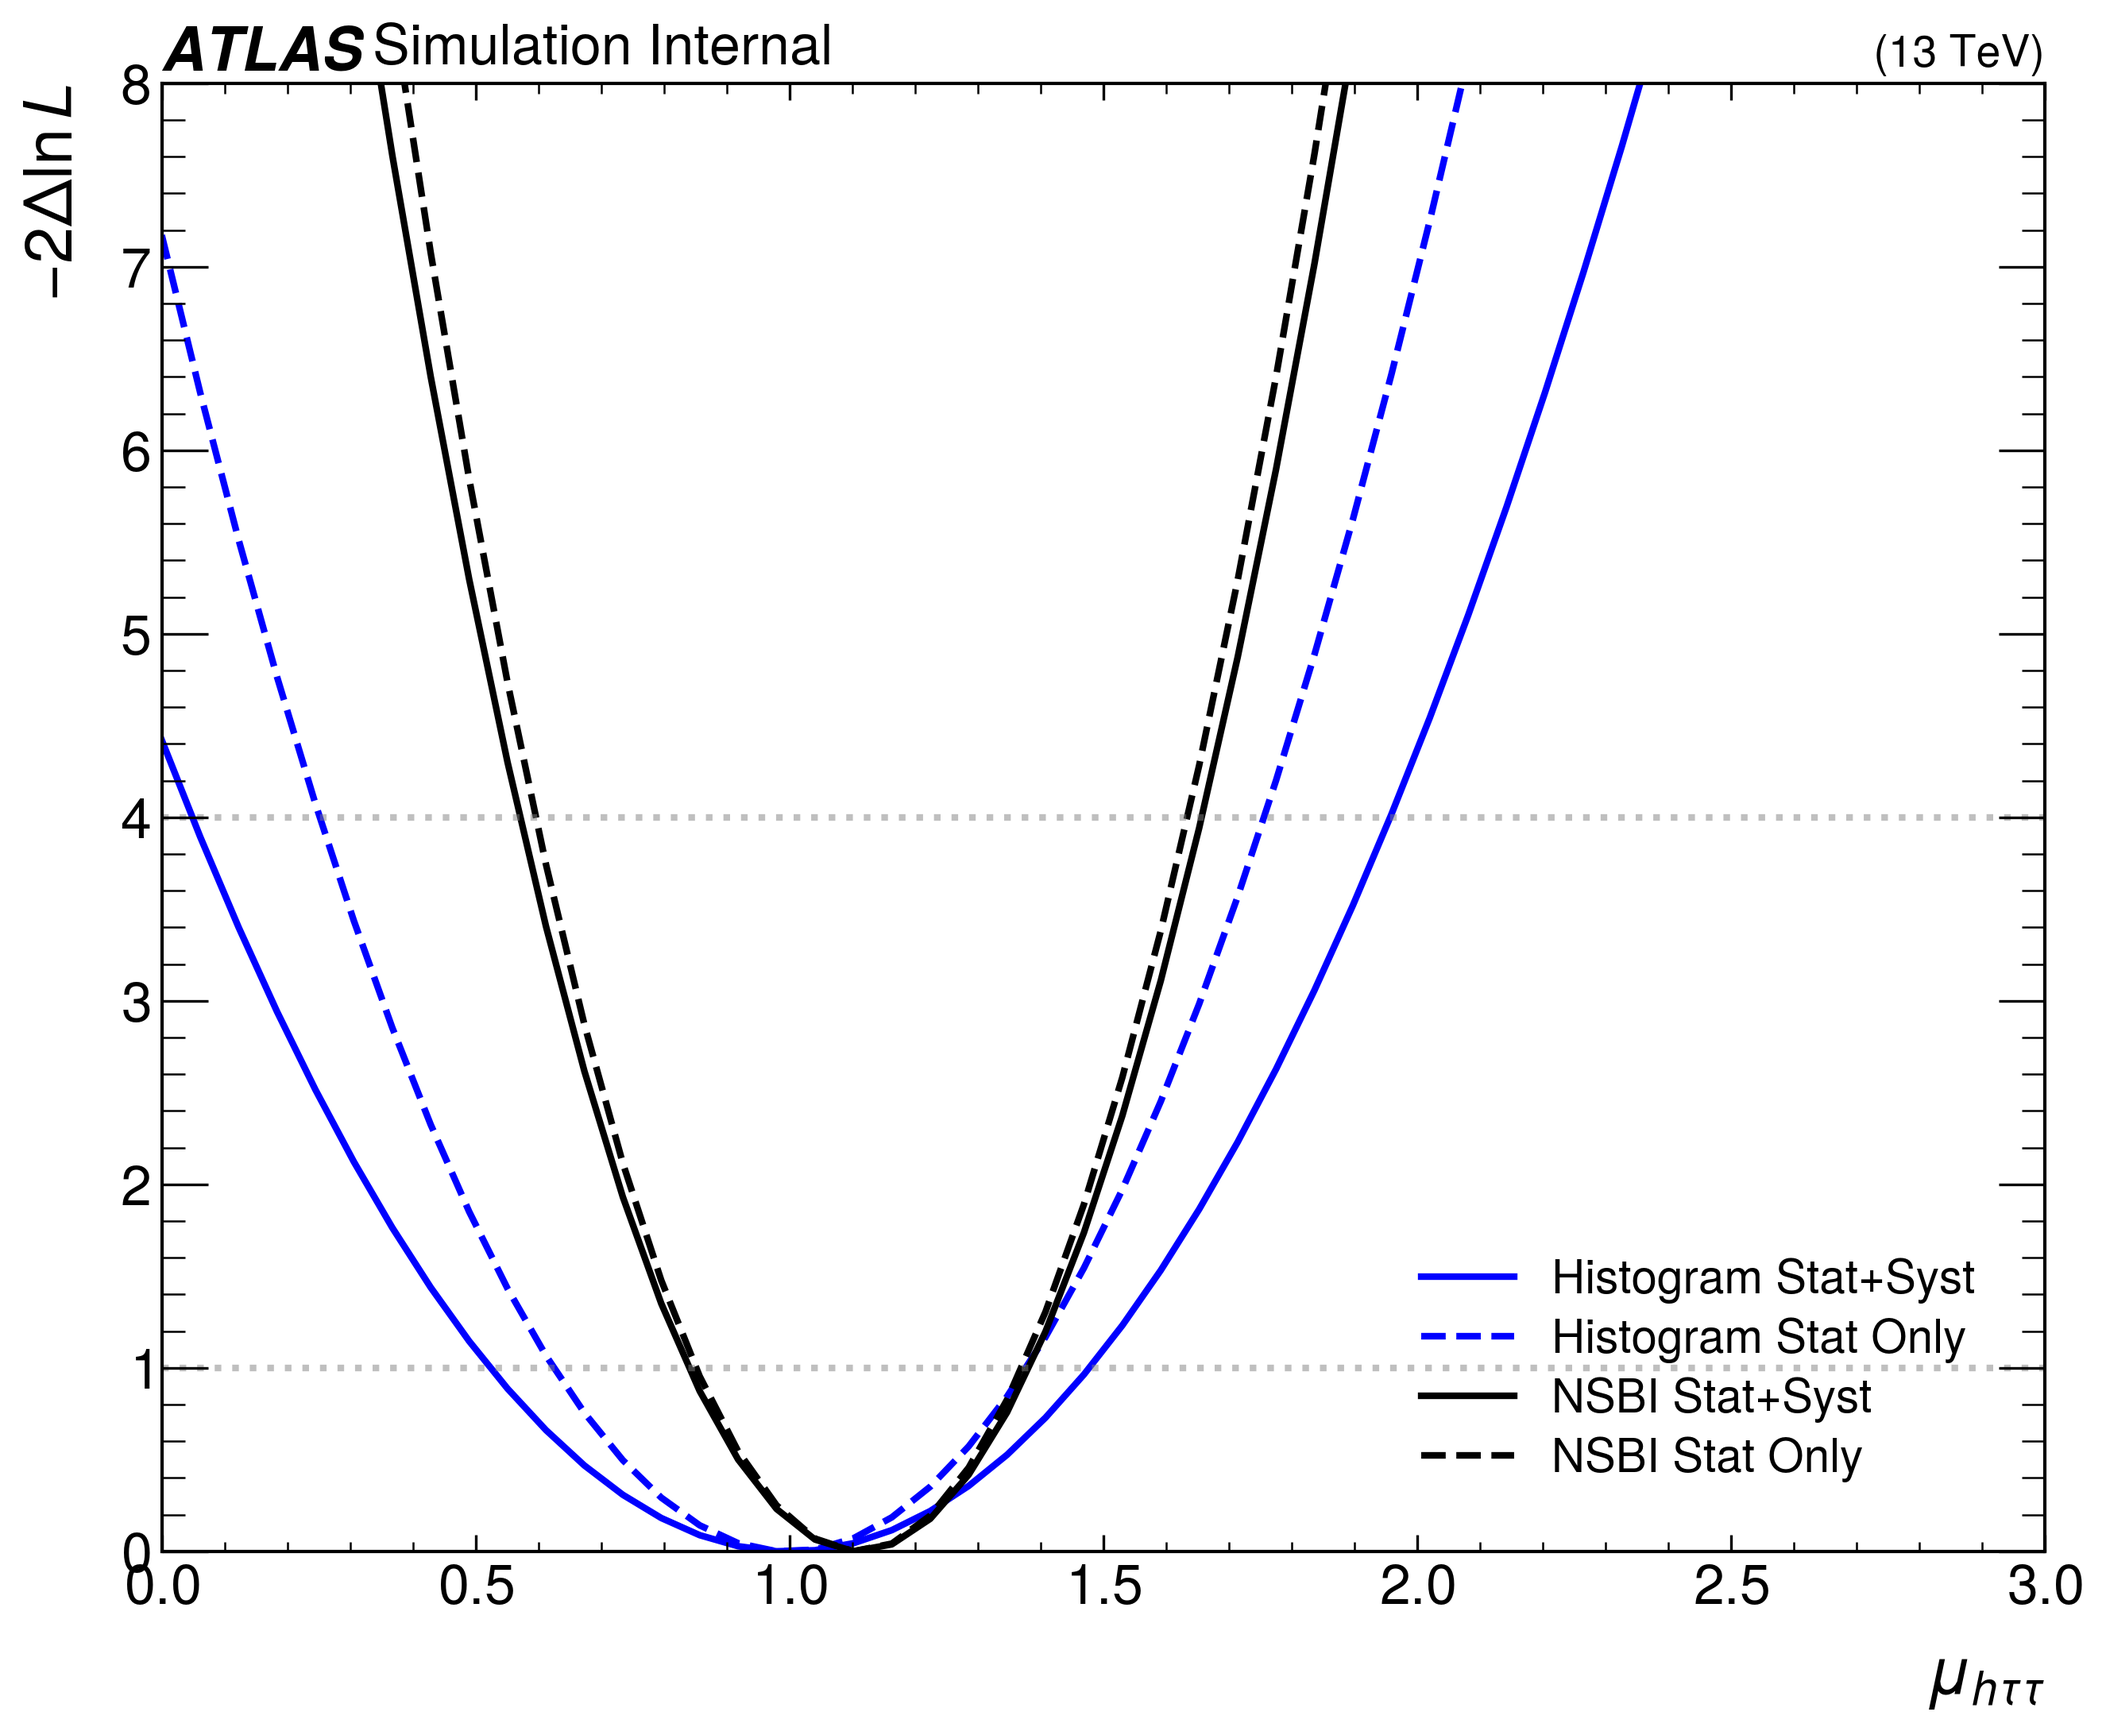
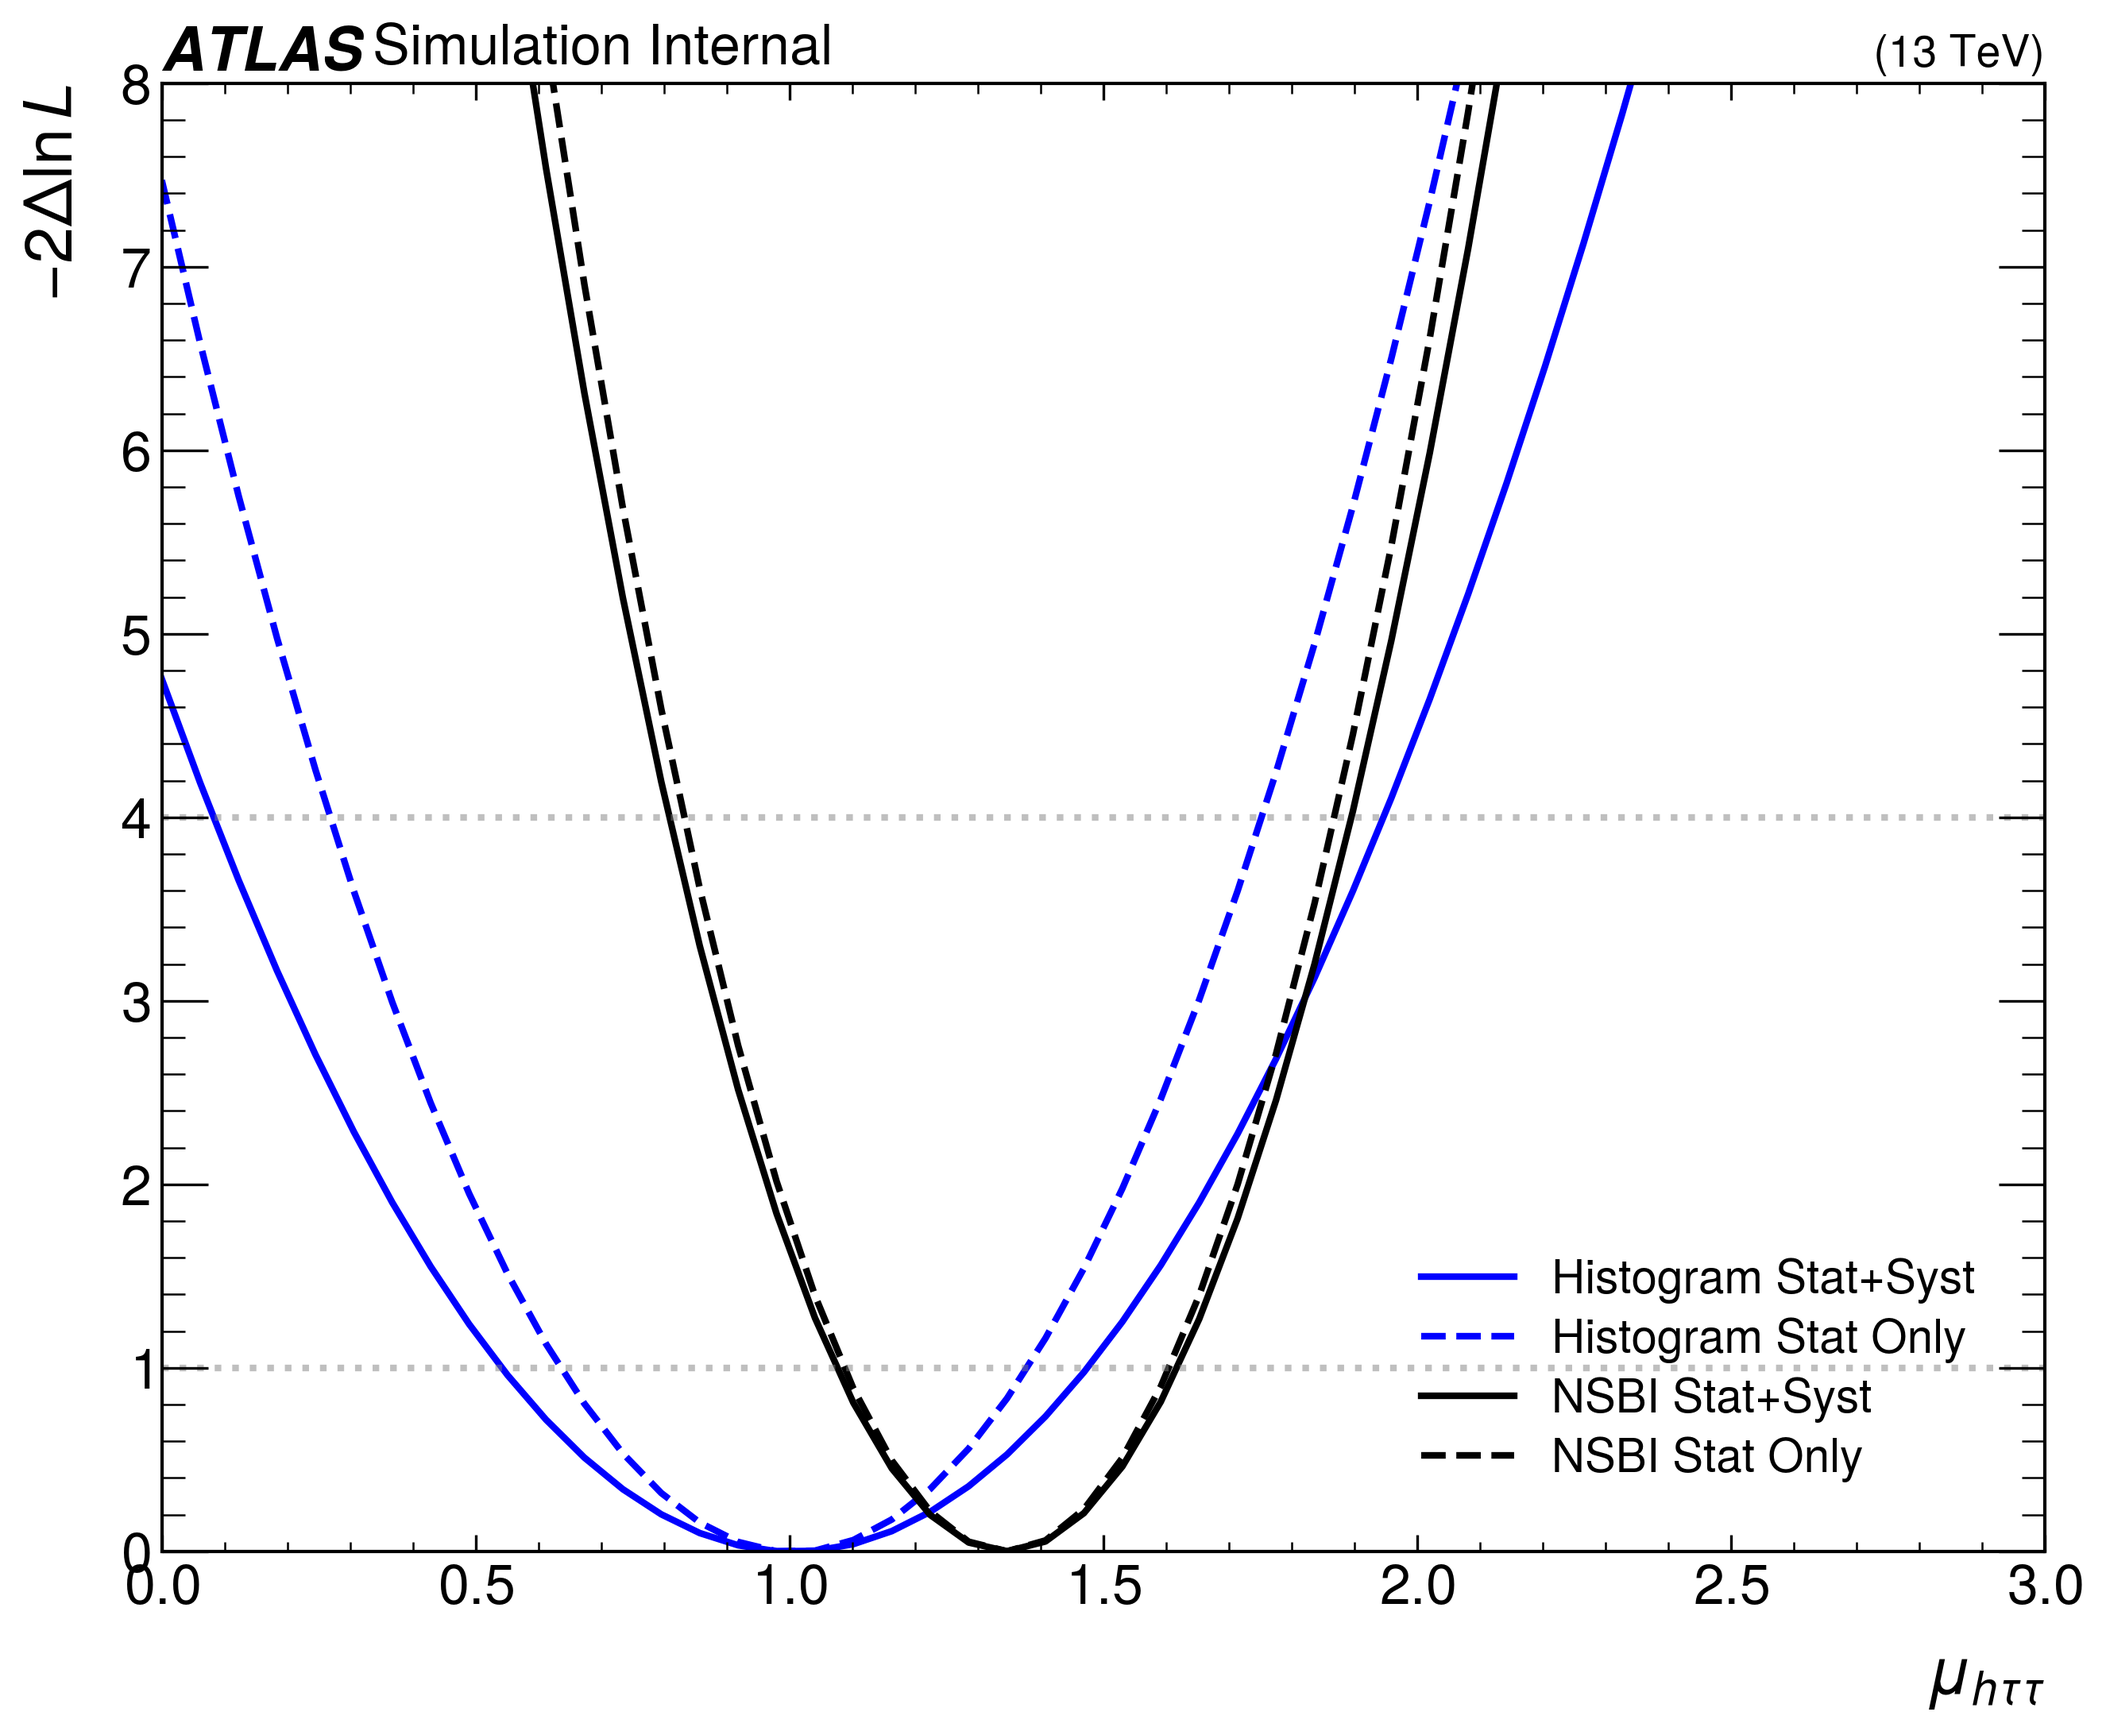
added observed dataset creation in processing, removed ensemble training

diff --git a/examples/FAIR_universe_Higgs_tautau/scripts/data_preprocessing.py b/examples/FAIR_universe_Higgs_tautau/scripts/data_preprocessing.py
@@ -3,6 +3,8 @@ import sys
 import argparse
 import numpy as np
 import pandas as pd
+import awkward as ak
+import uproot
 import matplotlib.pyplot as plt
 import mplhep as hep
 import yaml
@@ -33,6 +35,36 @@ def parse_args() -> argparse.Namespace:
         help="Path to configuration file."
     )
     return parser.parse_args()
+
+def bootstrap_obs_dataset(fit_config_path: str) -> None:
+    """
+    Create the raw 'observed' dataset (SM Asimov) before any sample is loaded.
+
+    The Data:True sample in the fit config is the sum of the nominal MC
+    processes. We concatenate those process trees (raw branches) into a single
+    tree at the obs path, so that obs is then a normal config sample: the rest
+    of preprocessing decorates it with the engineered branches, and the
+    preselection network later adds 'presel_score' — exactly like the MC.
+    """
+    with open(fit_config_path) as f:
+        samples = yaml.safe_load(f)["Samples"]
+
+    data_sample = next(s for s in samples if s.get("Data", False))
+    mc_samples = [s for s in samples if not s.get("Data", False)]
+
+    trees = []
+    for s in mc_samples:
+        with uproot.open(f"{s['SamplePath']}:{s['Tree']}") as t:
+            trees.append(t.arrays(library="ak"))
+    obs = ak.concatenate(trees)
+
+    with uproot.recreate(data_sample["SamplePath"]) as fout:
+        fout[data_sample["Tree"]] = obs
+    logger.info(
+        f"Bootstrapped {len(obs)} obs events -> "
+        f"{data_sample['SamplePath']}:{data_sample['Tree']}"
+    )
+
 
 def process_data(df: dict, input_features_by_jet: dict, branches: list) -> tuple:
     """
@@ -157,6 +189,9 @@ def main() -> None:
     }
 
     try:
+        logger.info("Creating raw observed dataset before loading...")
+        bootstrap_obs_dataset(config['fit_config_path'])
+
         logger.info("Loading dataset into Pandas DataFrames...")
         datasets_helper = nsbi_common_utils.datasets.datasets(
                                                                 config_path=config['fit_config_path'],

diff --git a/examples/FAIR_universe_Higgs_tautau/scripts/preselection_network.py b/examples/FAIR_universe_Higgs_tautau/scripts/preselection_network.py
@@ -130,10 +130,14 @@ def main():
     dataset_incl_nominal = dataset_incl_dict["Nominal"].copy()
 
     logger.info("Merging nominal samples for training...")
+    # Only the labelled MC processes train the preselection network. The
+    # Data:True 'obs' sample is loaded (so it gets decorated with presel_score
+    # below) but must be excluded here, or its events would enter training with
+    # the sentinel label -999.
     dataset_incl_nominal_training = datasets_helper.merge_dataframe_dict_for_training(
-        dataset_incl_nominal, 
+        dataset_incl_nominal,
         label_dict,
-        samples_to_merge=dataset_incl_nominal.keys()
+        samples_to_merge=list(label_dict.keys())
     )
 
     preselectionTraining = nsbi_common_utils.training.preselection_network_trainer(
